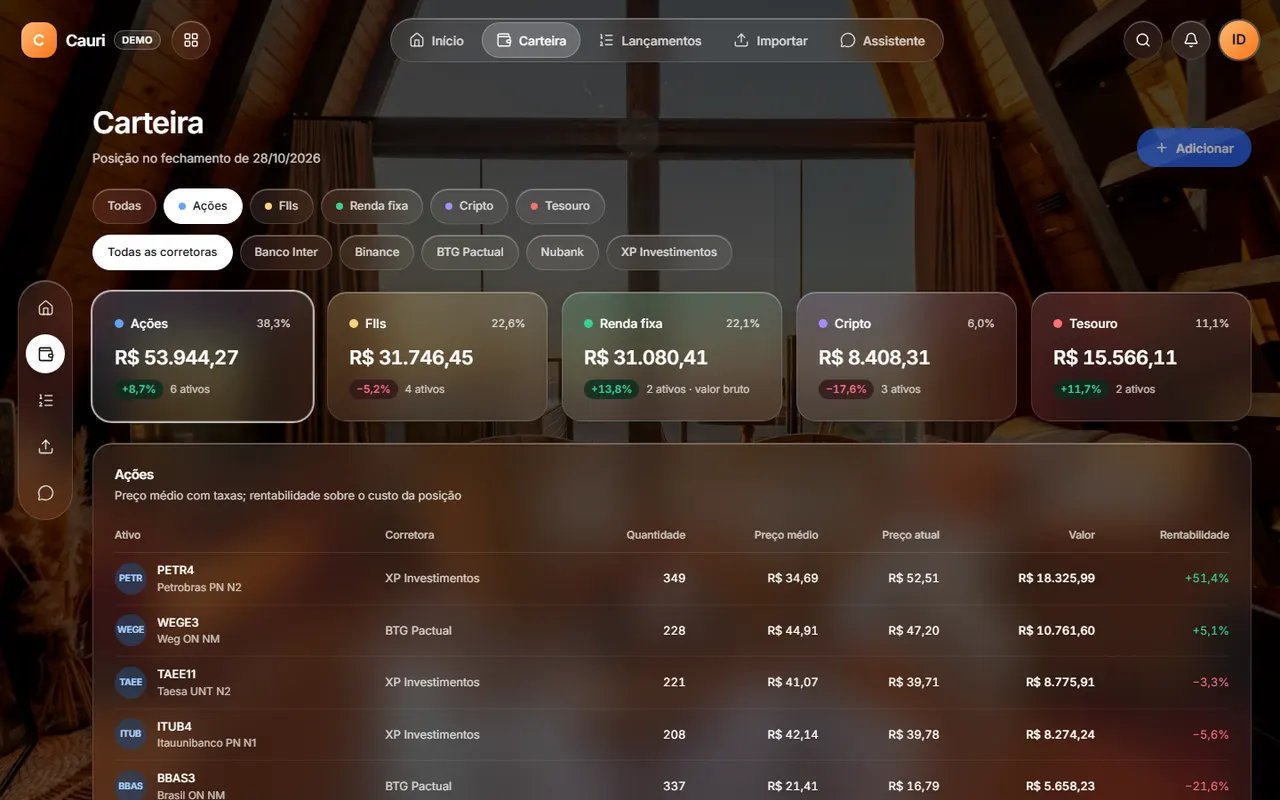
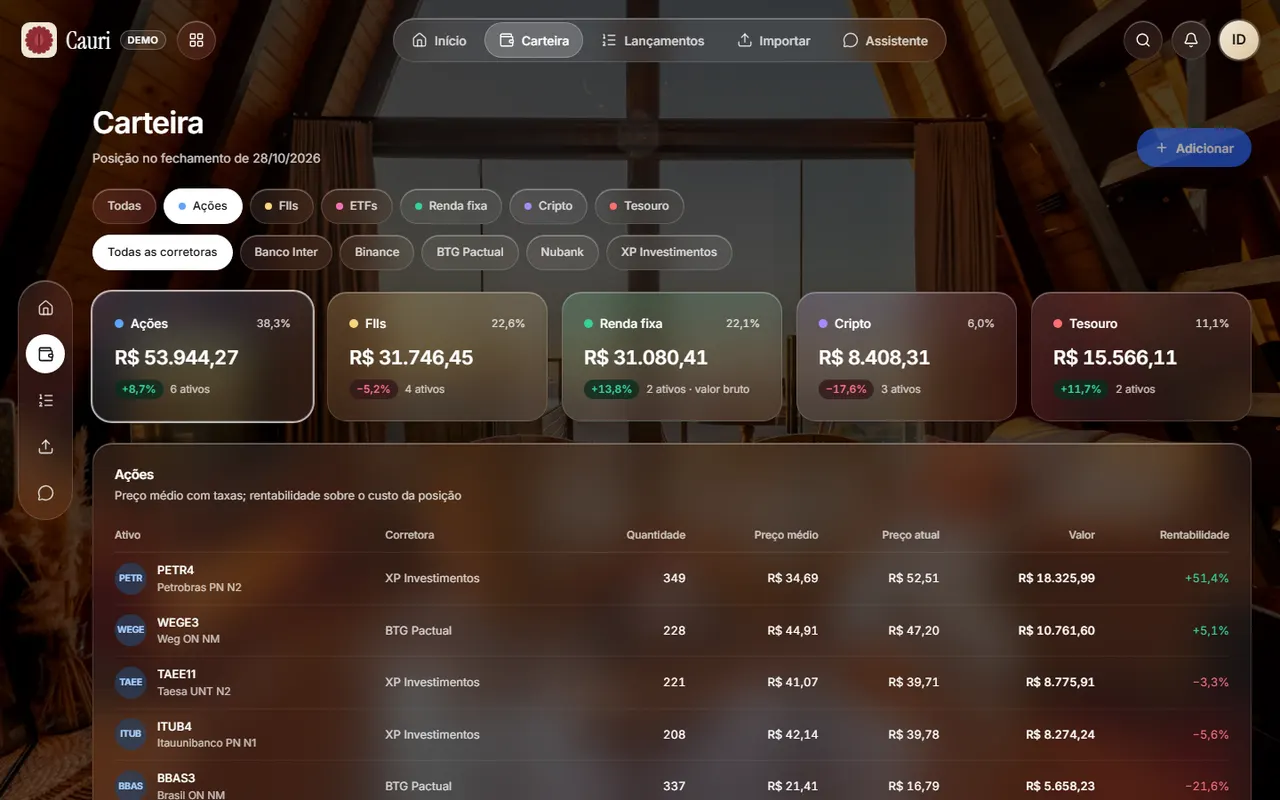
feat(web): nova marca, o selo de cera com o búzio
A logo passa a ser um lacre de cera vinho com o búzio em relevo, sobre papel
creme, e o nome em Instrument Serif (fonte servida pelo próprio site, como a
Inter, para a CSP continuar só com 'self'). Um componente só (ui/Brand.tsx)
na barra do app e nas telas de acesso; favicon na versão simplificada; avatar
no creme do selo; e-mail de acesso com o nome em serifa e botão vinho; selo no
título do README e screenshots refeitos a partir do /demo.

diff --git a/web/src/ui/Brand.tsx b/web/src/ui/Brand.tsx
@@ -1,0 +1,38 @@
+/**
+ * Marca do Cauri: o selo de cera com o búzio em relevo (cauri é o búzio, uma das moedas mais
+ * antigas do mundo) e o nome em Instrument Serif. O favicon (public/favicon.svg) é o mesmo
+ * selo. As outras propostas de logo ficam guardadas em docs/marca/.
+ */
+
+const SEAL = "#8f2d33";
+const SCALLOPS = Array.from({ length: 16 }, (_, i) => {
+  const angle = (i * Math.PI) / 8;
+  return [32 + 21 * Math.cos(angle), 32 + 21 * Math.sin(angle)].map((v) => Math.round(v * 100) / 100);
+});
+
+export function BrandMark({ className = "size-10" }: { className?: string }) {
+  return (
+    <svg viewBox="0 0 64 64" className={`shrink-0 ${className}`} aria-hidden>
+      <rect width="64" height="64" rx="15" fill="#efe6d6" />
+      <g fill={SEAL}>
+        <circle cx="32" cy="32" r="21" />
+        {SCALLOPS.map(([x, y]) => (
+          <circle key={`${x}-${y}`} cx={x} cy={y} r="4.2" />
+        ))}
+      </g>
+      <ellipse cx="32.8" cy="32.8" rx="8" ry="11.5" fill="#6e1f25" />
+      <ellipse cx="32" cy="32" rx="8" ry="11.5" fill="#b4444a" />
+      <path d="M32 21.5V42.5" stroke="#5f1a20" strokeWidth="2.6" strokeLinecap="round" />
+    </svg>
+  );
+}
+
+/** Selo + nome, como aparece na barra do app e nas telas de acesso. */
+export function Brand() {
+  return (
+    <span className="flex items-center gap-2.5">
+      <BrandMark className="size-10 drop-shadow-[0_6px_18px_rgba(0,0,0,0.3)]" />
+      <span className="font-brand text-[27px] leading-none">Cauri</span>
+    </span>
+  );
+}

diff --git a/supabase/templates/acesso.html b/supabase/templates/acesso.html
@@ -15,14 +15,14 @@
           <table role="presentation" width="100%" cellpadding="0" cellspacing="0" style="max-width:440px;background:#ffffff;border-radius:16px;padding:32px">
             <tr>
               <td>
-                <p style="margin:0 0 20px;font-size:18px;font-weight:600">Cauri</p>
+                <p style="margin:0 0 20px;font-family:Georgia,'Times New Roman',serif;font-size:24px;line-height:1;color:#1d1b19"><span style="display:inline-block;width:14px;height:14px;margin-right:8px;border-radius:50%;background:#8f2d33;vertical-align:1px"></span>Cauri</p>
                 <p style="margin:0 0 8px;font-size:22px;font-weight:600">Seu link de acesso</p>
                 <p style="margin:0 0 24px;font-size:15px;line-height:1.5;color:#4a4540">
                   Clique no botão para entrar. O link vale por 1 hora, funciona uma vez e pode ser aberto em qualquer aparelho.
                 </p>
                 <p style="margin:0 0 24px">
                   <a href="{{ .RedirectTo }}?token_hash={{ .TokenHash }}&type=email"
-                     style="display:inline-block;background:#1d1b19;color:#ffffff;text-decoration:none;font-size:15px;font-weight:600;padding:12px 22px;border-radius:12px">
+                     style="display:inline-block;background:#8f2d33;color:#ffffff;text-decoration:none;font-size:15px;font-weight:600;padding:12px 22px;border-radius:12px">
                     Entrar no Cauri
                   </a>
                 </p>

diff --git a/web/src/routes/AuthShell.tsx b/web/src/routes/AuthShell.tsx
@@ -3,6 +3,7 @@ import type { ReactNode } from "react";
 import { Link } from "react-router";
 
 import { Background } from "@/ui/Background";
+import { Brand } from "@/ui/Brand";
 import { itemVariants, staticVariants } from "@/ui/motion";
 
 /** Cartão das telas de acesso (pedir o link e confirmar a entrada). */
@@ -18,17 +19,8 @@ export function AuthShell({ children }: { children: ReactNode }) {
           animate="show"
           className="glass-card w-full max-w-[420px] p-7 sm:p-8"
         >
-          <div className="mb-6 flex items-center gap-2.5">
-            <span
-              className="grid size-10 place-items-center rounded-[14px] shadow-card"
-              style={{ background: "linear-gradient(135deg, var(--cauri-avatar-from), var(--cauri-avatar-to))" }}
-              aria-hidden
-            >
-              <svg viewBox="0 0 64 64" className="size-6">
-                <path d="M42 22a14 14 0 1 0 0 20" fill="none" stroke="#fff" strokeWidth="7" strokeLinecap="round" />
-              </svg>
-            </span>
-            <span className="text-[18px] font-semibold tracking-tight">Cauri</span>
+          <div className="mb-6">
+            <Brand />
           </div>
           {children}
           <p className="mt-6 border-t border-white/10 pt-5 text-center text-[13px] text-muted">

diff --git a/web/src/ui/Shell.tsx b/web/src/ui/Shell.tsx
@@ -19,6 +19,7 @@ import { BACKGROUNDS, type BackgroundSlug } from "@/theme/backgrounds";
 import { tokens } from "@/theme/tokens";
 
 import { Background } from "./Background";
+import { Brand } from "./Brand";
 import { IconButton } from "./controls";
 import { Avatar } from "./viz";
 
@@ -40,16 +41,7 @@ export function navItems(base: string, { admin = false }: { admin?: boolean } = 
 function Logo({ demo }: { demo: boolean }) {
   return (
     <div className="flex items-center gap-2.5">
-      <span
-        className="grid size-10 place-items-center rounded-[14px] shadow-card"
-        style={{ background: "linear-gradient(135deg, var(--cauri-avatar-from), var(--cauri-avatar-to))" }}
-        aria-hidden
-      >
-        <svg viewBox="0 0 64 64" className="size-6">
-          <path d="M42 22a14 14 0 1 0 0 20" fill="none" stroke="#fff" strokeWidth="7" strokeLinecap="round" />
-        </svg>
-      </span>
-      <span className="text-[18px] font-semibold tracking-tight">Cauri</span>
+      <Brand />
       {demo ? (
         <span className="rounded-full border border-white/25 bg-white/10 px-2 py-0.5 text-[11px] font-semibold tracking-wide text-ink uppercase">
           Demo

diff --git a/web/src/theme/tokens.ts b/web/src/theme/tokens.ts
@@ -24,8 +24,8 @@ export const tokens = {
     primary: "#2563eb", // blue-600: ação primária (branco sobre blue-500 não passa no AA)
     primaryHover: "#1d4ed8",
     gold: "#f9d47e",
-    avatarFrom: "#fdba74",
-    avatarTo: "#f97316",
+    avatarFrom: "#f3ead8", // creme do papel do selo (ver ui/Brand.tsx)
+    avatarTo: "#dcc5a0",
     onLight: "#111111",
     chartBar: "rgba(255, 255, 255, 0.22)",
     chartBarActive: "#60a5fa",
@@ -64,6 +64,7 @@ export const tokens = {
   },
   font: {
     sans: "'Inter Variable', 'Inter', system-ui, -apple-system, 'Segoe UI', sans-serif",
+    brand: "'Instrument Serif', Georgia, 'Times New Roman', serif", // só no nome Cauri
   },
   motion: {
     stagger: 0.04,
@@ -104,6 +105,7 @@ const cssVars: Record<string, string> = {
   "--cauri-shadow-card": tokens.shadow.card,
   "--cauri-shadow-lifted": tokens.shadow.lifted,
   "--cauri-font-sans": tokens.font.sans,
+  "--cauri-font-brand": tokens.font.brand,
   "--cauri-overlay-from": tokens.background.overlayFrom,
   "--cauri-overlay-to": tokens.background.overlayTo,
   ...Object.fromEntries(

diff --git a/web/src/theme/glass.css b/web/src/theme/glass.css
@@ -4,6 +4,7 @@
    o Tailwind e se define o vidro. Nenhum valor de cor mora neste arquivo. */
 @theme inline {
   --font-sans: var(--cauri-font-sans);
+  --font-brand: var(--cauri-font-brand);
   --color-ink: var(--cauri-text);
   --color-muted: var(--cauri-text-muted);
   --color-subtle: var(--cauri-text-subtle);

diff --git a/web/src/main.tsx b/web/src/main.tsx
@@ -1,4 +1,5 @@
 import "@fontsource-variable/inter";
+import "@fontsource/instrument-serif/latin-400.css";
 import "./theme/glass.css";
 
 import { QueryClient, QueryClientProvider } from "@tanstack/react-query";

diff --git a/README.md b/README.md
@@ -1,4 +1,4 @@
-# Cauri
+# <img src="docs/marca/09-selo.svg" width="40" alt="" align="top"> Cauri
 
 Carteira de investimentos que junta ações, FIIs, ETFs, Tesouro Direto, renda fixa e cripto num lugar só e compara a rentabilidade com o CDI.
 As operações entram pela planilha da corretora ou por uma frase falada ("comprei 3 petrobras"), e nada é gravado sem você conferir antes.
